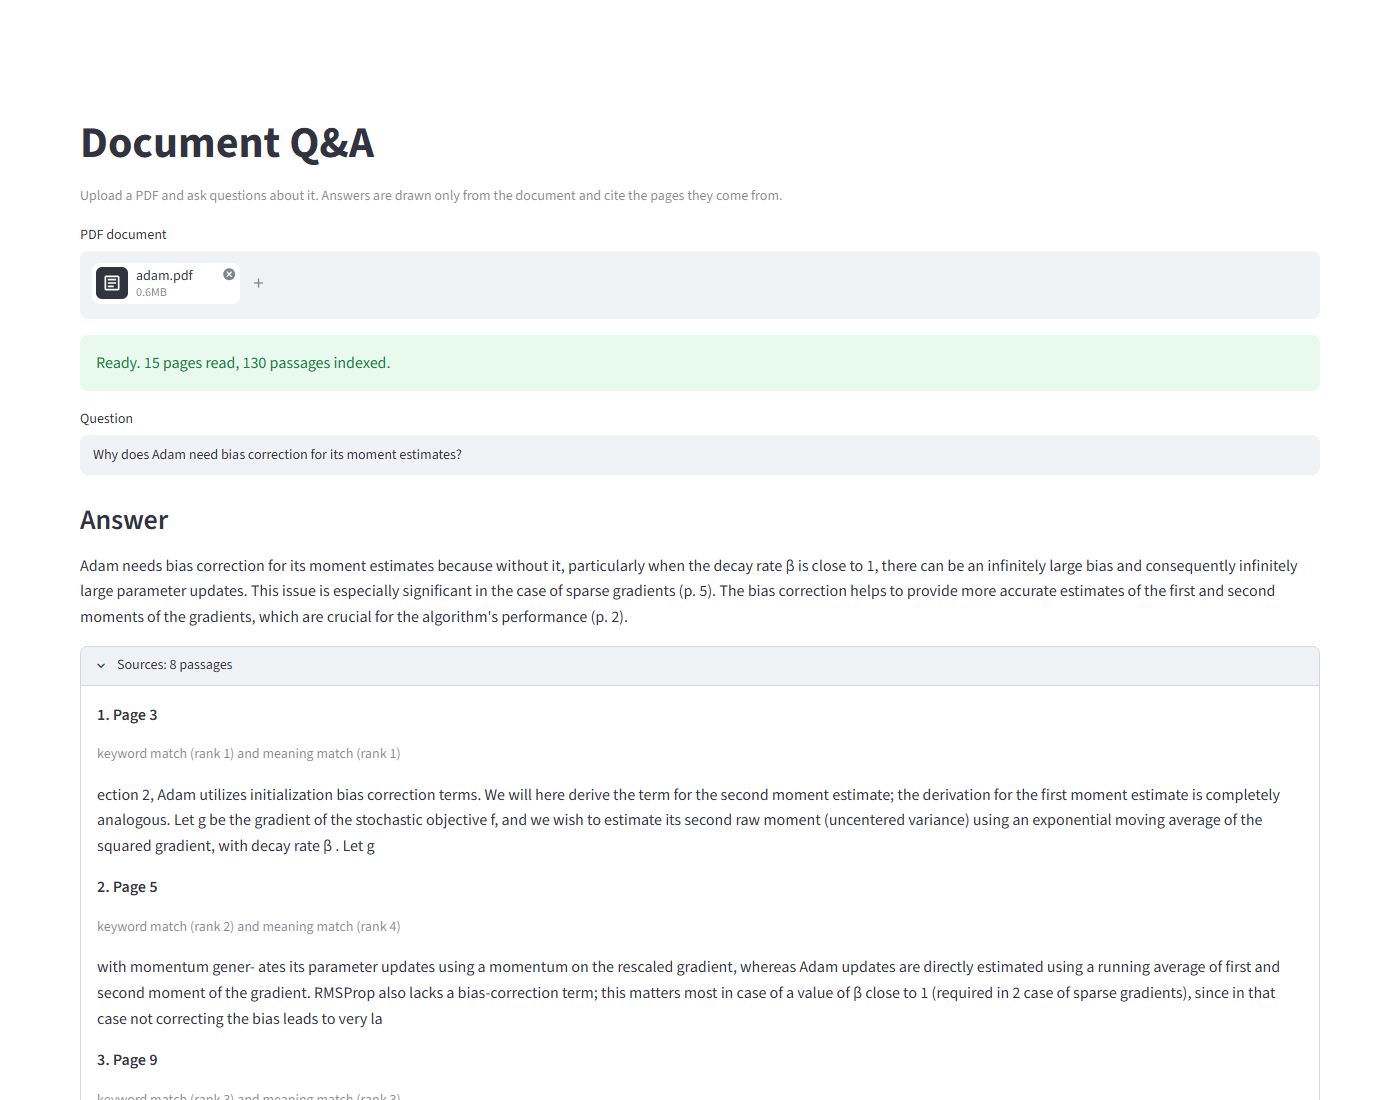
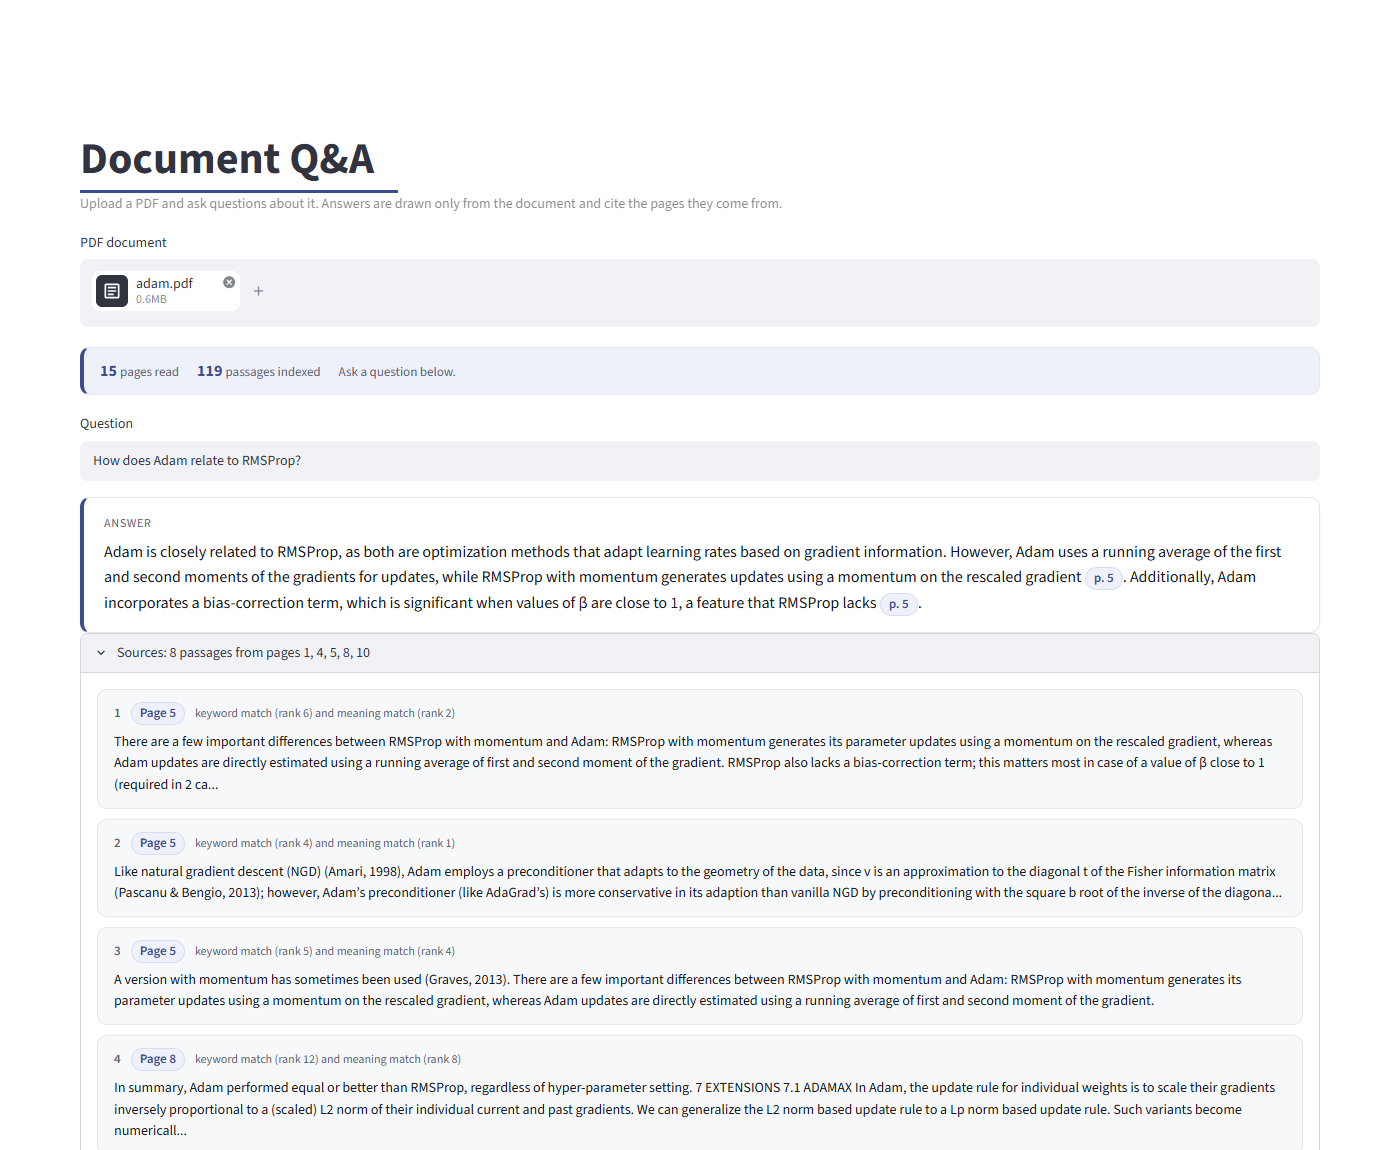
Give the page some structure: answer card, page chips, passage blocks (#7)
The app had no styling, so the status line, the answer and the eight source
passages all read with the same weight in one column of text.

- The answer sits in a card of its own, with its page citations marked as
  chips - the citations are the point of the app and were plain text.
- Indexing status is a quiet accent strip rather than a green alert box.
- Each source passage is a block with its page chip and why it matched, and
  the expander header lists the pages the answer drew on.
- The title carries an accent rule, and Streamlit's red-to-yellow top bar is
  recoloured to the app's indigo.

Styling and the citation regex live in src/ui.py; the pipeline is untouched.
Screenshot refreshed.

diff --git a/src/ui.py b/src/ui.py
@@ -1,0 +1,148 @@
+"""Page styling for the Streamlit app.
+
+The app had no styling at all, so the status line, the answer and the eight
+source passages all carried the same weight and the page read as one column of
+text. Colour is used to separate those three things and to mark the page
+citations, which are the point of the app.
+
+One accent (indigo), white canvas, hairline borders. Nothing here changes what
+the pipeline returns.
+"""
+
+from __future__ import annotations
+
+import html
+import re
+
+import streamlit as st
+
+ACCENT = "#3b4d8f"
+
+CSS = f"""
+<style>
+:root {{
+  --accent: {ACCENT};
+  --accent-tint: #eef1fa;
+  --ink: #14181f;
+  --muted: #5b6472;
+  --surface: #f7f8f9;
+  --hairline: #e5e7eb;
+}}
+
+/* Streamlit's own red-to-yellow bar sits above every page; make it ours. */
+[data-testid="stDecoration"] {{
+  background: linear-gradient(90deg, var(--accent), #5a6cc0);
+}}
+
+.stMain h1 {{
+  padding-bottom: 0.3rem;
+  border-bottom: 3px solid var(--accent);
+  display: inline-block;
+}}
+
+/* The document is ready: a quiet accent strip, not a green alert. */
+.doc-status {{
+  display: flex;
+  align-items: baseline;
+  gap: 18px;
+  border: 1px solid var(--hairline);
+  border-left: 4px solid var(--accent);
+  border-radius: 10px;
+  background: var(--accent-tint);
+  padding: 10px 16px;
+  margin: 4px 0 18px;
+}}
+.doc-status-figure {{ font-weight: 700; color: var(--accent); }}
+.doc-status-label {{ color: var(--muted); font-size: 13px; }}
+
+/* The answer is the result, so it gets a card of its own. */
+.answer-card {{
+  border: 1px solid var(--hairline);
+  border-left: 4px solid var(--accent);
+  border-radius: 10px;
+  padding: 16px 20px;
+  background: #ffffff;
+  box-shadow: 0 1px 2px rgba(20, 24, 31, 0.04);
+}}
+.answer-label {{
+  font-size: 12px; text-transform: uppercase; letter-spacing: 0.06em;
+  color: var(--muted); margin-bottom: 6px;
+}}
+.answer-body {{ color: var(--ink); font-size: 16px; line-height: 1.6; }}
+
+/* Page citations, in the answer and beside each passage. */
+.page-chip {{
+  display: inline-block;
+  background: var(--accent-tint);
+  color: var(--accent);
+  border: 1px solid #d7dcf2;
+  border-radius: 999px;
+  padding: 0 8px;
+  font-size: 13px;
+  font-weight: 600;
+  white-space: nowrap;
+}}
+
+/* Each source passage as its own block, with the match reason set apart. */
+.passage {{
+  border: 1px solid var(--hairline);
+  border-radius: 10px;
+  padding: 12px 16px;
+  margin-bottom: 10px;
+  background: var(--surface);
+}}
+.passage-head {{ display: flex; align-items: center; gap: 10px; margin-bottom: 6px; }}
+.passage-rank {{ color: var(--muted); font-size: 13px; font-weight: 600; }}
+.passage-why {{ color: var(--muted); font-size: 12px; }}
+.passage-text {{ color: var(--ink); font-size: 14px; line-height: 1.55; }}
+
+[data-testid="stTable"] thead th {{
+  background: var(--surface);
+  color: var(--muted);
+  font-size: 12px;
+  text-transform: uppercase;
+  border-bottom: 2px solid var(--accent);
+}}
+</style>
+"""
+
+# "(p. 5)" or "(pp. 4-5)" as the answer prompt asks for them.
+_CITATION = re.compile(r"\((pp?\.\s*[\d,\s–-]+)\)")
+
+
+def inject() -> None:
+    st.markdown(CSS, unsafe_allow_html=True)
+
+
+def status(pages: int, passages: int) -> str:
+    return (
+        '<div class="doc-status">'
+        f'<span><span class="doc-status-figure">{pages}</span>'
+        ' <span class="doc-status-label">pages read</span></span>'
+        f'<span><span class="doc-status-figure">{passages}</span>'
+        ' <span class="doc-status-label">passages indexed</span></span>'
+        '<span class="doc-status-label">Ask a question below.</span>'
+        "</div>"
+    )
+
+
+def answer_card(answer: str) -> str:
+    """The answer, with its page citations marked."""
+    body = _CITATION.sub(
+        lambda m: f'<span class="page-chip">{html.escape(m.group(1))}</span>',
+        html.escape(answer),
+    )
+    return (
+        '<div class="answer-card"><div class="answer-label">Answer</div>'
+        f'<div class="answer-body">{body}</div></div>'
+    )
+
+
+def passage(rank: int, page: int, why: str, text: str) -> str:
+    return (
+        '<div class="passage"><div class="passage-head">'
+        f'<span class="passage-rank">{rank}</span>'
+        f'<span class="page-chip">Page {page}</span>'
+        f'<span class="passage-why">{html.escape(why)}</span>'
+        f'</div><div class="passage-text">{html.escape(text)}</div></div>'
+    )

diff --git a/app.py b/app.py
@@ -12,11 +12,13 @@ from src.embedder import embed
 from src.llm import ABSTAIN, AnswerError, expand_query, generate_answer
 from src.loader import DocumentError, load_pdf
 from src.retriever import DEFAULT_K, search
+from src.ui import answer_card, inject, passage, status
 from src.vector_store import create_index
 
 st.set_page_config(
     page_title="DocEngine | Document Q&A", page_icon="assets/favicon.png", layout="wide"
 )
+inject()
 st.title("Document Q&A")
 st.caption(
     "Upload a PDF and ask questions about it. Answers are drawn only from the "
@@ -45,7 +47,7 @@ if uploaded:
         st.error(str(exc))
         st.stop()
 
-    st.success(f"Ready. {len(pages)} pages read, {len(chunks)} passages indexed.")
+    st.markdown(status(len(pages), len(chunks)), unsafe_allow_html=True)
 
     query = st.text_input("Question", placeholder="What does the document say about ...?")
 
@@ -68,16 +70,17 @@ if uploaded:
             st.error(str(exc))
             st.stop()
 
-        st.subheader("Answer")
         if answer.strip().rstrip(".").lower() == ABSTAIN.lower():
             st.info(
                 "The document does not clearly answer this question. "
                 "The closest passages are listed below."
             )
         else:
-            st.write(answer)
+            st.markdown(answer_card(answer), unsafe_allow_html=True)
 
-        with st.expander(f"Sources: {len(results)} passages"):
+        pages_cited = sorted({item.chunk.page for item in results})
+        label = ", ".join(str(page) for page in pages_cited)
+        with st.expander(f"Sources: {len(results)} passages from pages {label}"):
             for position, item in enumerate(results, start=1):
                 matched_by = []
                 if item.keyword_rank:
@@ -85,10 +88,12 @@ if uploaded:
                 if item.semantic_rank:
                     matched_by.append(f"meaning match (rank {item.semantic_rank})")
 
-                st.markdown(f"**{position}. Page {item.chunk.page}**")
-                st.caption(
+                text = item.chunk.text[:400] + ("..." if len(item.chunk.text) > 400 else "")
+                why = (
                     " and ".join(matched_by)
                     if matched_by
                     else "found through a rephrased version of the question"
                 )
-                st.text(item.chunk.text[:400] + ("..." if len(item.chunk.text) > 400 else ""))
+                st.markdown(
+                    passage(position, item.chunk.page, why, text), unsafe_allow_html=True
+                )
